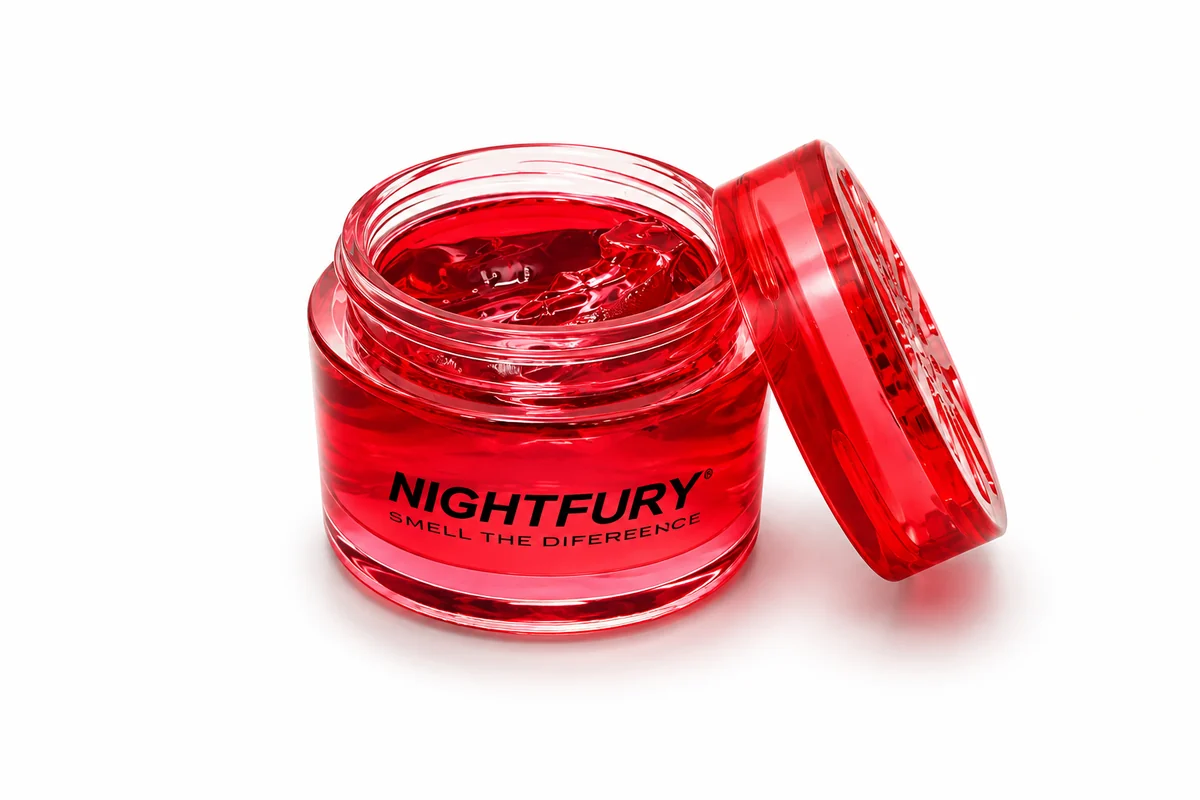
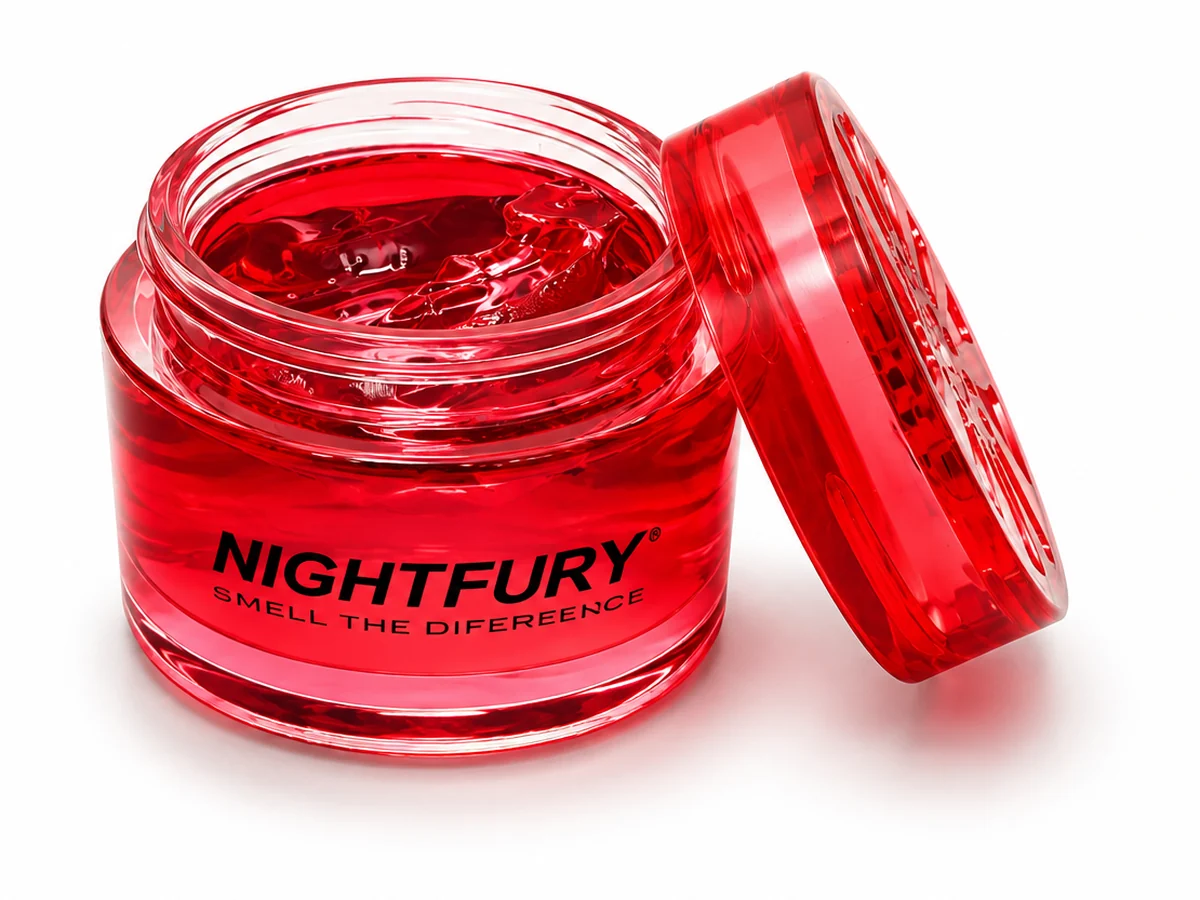
Core stage: photos as large hero panels instead of blended halo
Photos re-cropped tight to the product (4:3). They now sit in a white card
with a navy border and a hard shadow in the scent colour, the halo is gone,
and the photo column is the wider one.

diff --git a/src/components/StageVisual.tsx b/src/components/StageVisual.tsx
@@ -109,26 +109,40 @@ function Illustration({ item }: Readonly<{ item: StageItem }>) {
 }
 
 /**
- * Product photo. The shots have white backgrounds, so they are multiplied onto
- * the tint and halo: white takes the stage colour and the jar stays true.
- * Each swap remounts the image and fades it in (keyed by src).
+ * Product photo as a hero panel: the white studio background becomes a white
+ * card with a navy border and a hard shadow in the scent colour, so the jar
+ * stands off the tinted stage instead of blending into it. Each swap remounts
+ * the image and fades it in (keyed by src).
  */
-function Photo({ src, compact }: Readonly<{ src: string; compact?: boolean }>) {
+function PhotoPanel({ item, compact }: Readonly<{ item: StageItem; compact?: boolean }>) {
   return (
-    // eslint-disable-next-line @next/next/no-img-element -- pre-sized WebP that swaps on scroll; a plain img keeps the crossfade simple
-    <img
-      src={src}
-      alt=""
-      width={1200}
-      height={800}
-      decoding="async"
-      className={`nf-photo-in relative h-auto w-full object-contain mix-blend-multiply ${compact ? "max-w-[300px]" : "max-w-[600px]"}`}
-    />
+    <figure
+      className={`nf-tint relative m-0 w-full overflow-hidden rounded-[3px] border-2 border-navy bg-white ${compact ? "" : "max-w-[640px]"}`}
+      style={{ boxShadow: `${compact ? 6 : 10}px ${compact ? 6 : 10}px 0 ${item.colors.liquid}` }}
+    >
+      {/* eslint-disable-next-line @next/next/no-img-element -- pre-sized WebP that swaps on scroll; a plain img keeps the crossfade simple */}
+      <img
+        key={item.photo}
+        src={item.photo}
+        alt=""
+        width={1200}
+        height={900}
+        decoding="async"
+        className="nf-photo-in block aspect-[4/3] h-auto w-full object-contain"
+      />
+    </figure>
   );
 }
 
-/** Halo, product and floor shadow. `compact` scales it for the mobile cards. */
+/** Product visual: a photo panel when one exists, otherwise halo, illustration and floor shadow. */
 export default function StageVisual({ item, compact }: Readonly<{ item: StageItem; compact?: boolean }>) {
+  if (item.photo) {
+    return (
+      <div aria-hidden="true" className={`relative flex min-w-0 items-center justify-center ${compact ? "pt-1 pr-2 pb-3" : ""}`}>
+        <PhotoPanel item={item} compact={compact} />
+      </div>
+    );
+  }
   return (
     <div
       aria-hidden="true"
@@ -138,16 +152,10 @@ export default function StageVisual({ item, compact }: Readonly<{ item: StageIte
         className="nf-tint absolute aspect-square rounded-full"
         style={{ width: compact ? 220 : "min(400px, 100%)", backgroundColor: item.colors.halo }}
       />
-      {item.photo ? (
-        <div className="relative flex w-full justify-center">
-          <Photo key={item.photo} src={item.photo} compact={compact} />
-        </div>
-      ) : (
-        <div className={`relative flex flex-col items-center ${compact ? "scale-[0.62]" : "scale-90 xl:scale-[1.15]"}`}>
-          <Illustration item={item} />
-          <div className="mt-4 h-[18px] w-[200px] rounded-[50%] bg-[rgba(10,10,11,0.16)]" />
-        </div>
-      )}
+      <div className={`relative flex flex-col items-center ${compact ? "scale-[0.62]" : "scale-90 xl:scale-[1.15]"}`}>
+        <Illustration item={item} />
+        <div className="mt-4 h-[18px] w-[200px] rounded-[50%] bg-[rgba(10,10,11,0.16)]" />
+      </div>
     </div>
   );
 }

diff --git a/src/components/ScrollStage.tsx b/src/components/ScrollStage.tsx
@@ -109,7 +109,9 @@ export default function ScrollStage({
       >
         {/* The stage repeats the tint: it is its own stacking context, and photos multiply onto it. */}
         <div className="nf-tint sticky top-[76px] overflow-hidden" style={{ height: "var(--stage-h)", backgroundColor: cur.colors.tint }}>
-          <div className="nf-container grid h-full grid-cols-[minmax(0,1.15fr)_minmax(0,1fr)] items-center gap-x-16 py-12">
+          <div
+            className={`nf-container grid h-full items-center py-12 ${cur.photo ? "grid-cols-[minmax(0,0.95fr)_minmax(0,1.15fr)] gap-x-12" : "grid-cols-[minmax(0,1.15fr)_minmax(0,1fr)] gap-x-16"}`}
+          >
             <div className="min-w-0">
               <Eyebrow stage={stage} />
               {stage.toggle && <TypeToggle active={cur.type} onPick={(t) => onPick(firstOfType(items, t))} />}
